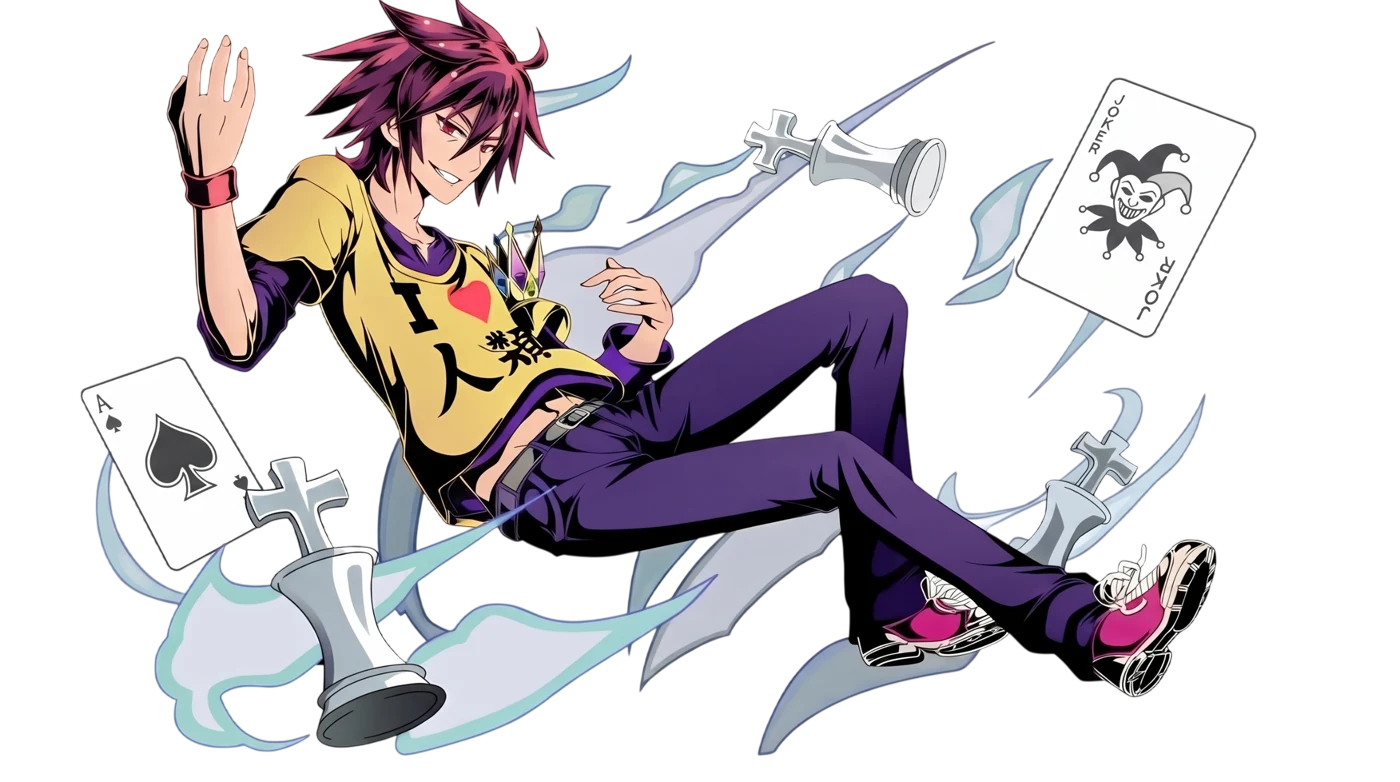
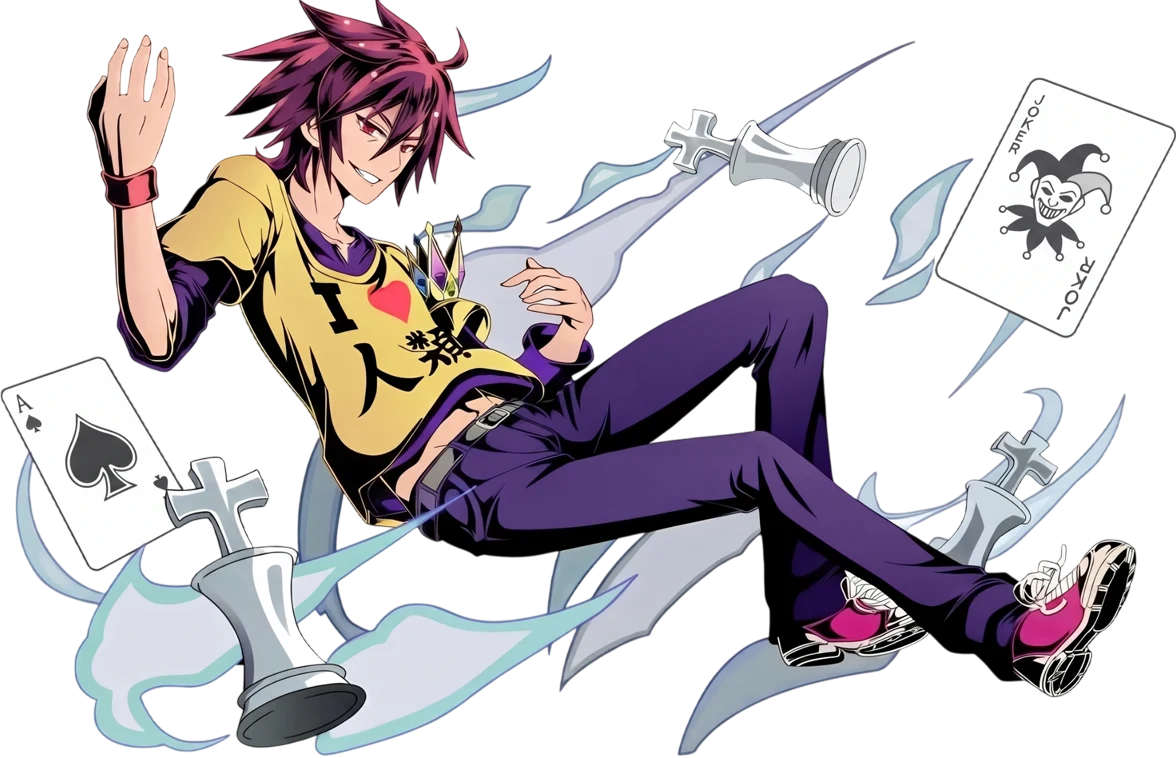
Collect : Sora remplit enfin le panneau
Elle est la seule illustration en PAYSAGE — 1,55 contre 1,26 pour Esdeath, la
plus large jusqu ici. Une pose couchee, cartes etalees autour : ca ne tient pas
en hauteur, et a « contain » c est sa largeur qui bornait tout. Elle rendait a
280 px de haut dans une boite de 600, tassee au bas du cadre.

Rognee d abord : dix-neuf pour cent du cadre etaient du vide, le rapport tombe
de 1,79 a 1,55.

⚠ Puis un second effet, invisible sur les autres parce qu elles remplissent
leur boite : le degrade de fondu est cale sur la BOITE de l image et non sur
l image. Des que « contain » laisse du vide au-dessus, le fondu descend bien
plus bas que le haut du dessin et mange le personnage au lieu de lui fondre les
pieds. D ou « height: auto » : la boite epouse alors le dessin, le fondu
retombe ou il doit, et c est la largeur seule qui commande la taille — les deux
bornes n ont plus a etre tenues d accord.

84 % de largeur, debordant de sept pour cent a droite comme Esdeath. Elle passe
de 280 a 425 px de haut, soit la moitie en plus.

Reste que le panneau est bati pour des personnages DEBOUT. Une Sora en portrait
le remplirait mieux que n importe quel reglage — c est note dans la feuille.

diff --git a/src/style/home.css b/src/style/home.css
@@ -7928,6 +7928,29 @@ body.game-active:has(.poll-game-container) #particles-js {
         max-width: 82%;
         right: -4%;
     }
+
+    /* Sora est la seule en PAYSAGE : 1,55 contre 1,26 pour Esdeath, la plus
+       large jusqu'ici. Une pose couchée, cartes étalées autour — ça ne tient
+       pas en hauteur, et à « contain » c'est sa largeur qui bornait tout : elle
+       rendait deux fois moins haute que ses voisines, tassée au bas du cadre.
+
+       ⚠ Et un second effet, invisible sur les autres : le dégradé de fondu est
+       calé sur la BOÎTE de l'image, pas sur l'image. Quand « contain » laisse du
+       vide au-dessus, le fondu descend donc bien plus bas que le haut du dessin
+       et mange le personnage au lieu de lui fondre les pieds. D'où « height:
+       auto » : la boîte épouse alors le dessin, et le fondu retombe où il doit.
+       C'est la largeur seule qui commande la taille — les deux bornes n'ont plus
+       à être tenues d'accord.
+
+       Reste que le panneau est bâti pour des personnages debout. Une Sora en
+       portrait le remplirait mieux que n'importe quel réglage. */
+    .v2-mode-char.char-collect {
+        height: auto;
+        width: 84%;
+        max-width: 84%;
+        right: -7%;
+        bottom: 0.6rem;
+    }
 }
 
 .v2-mode-char.plain {
